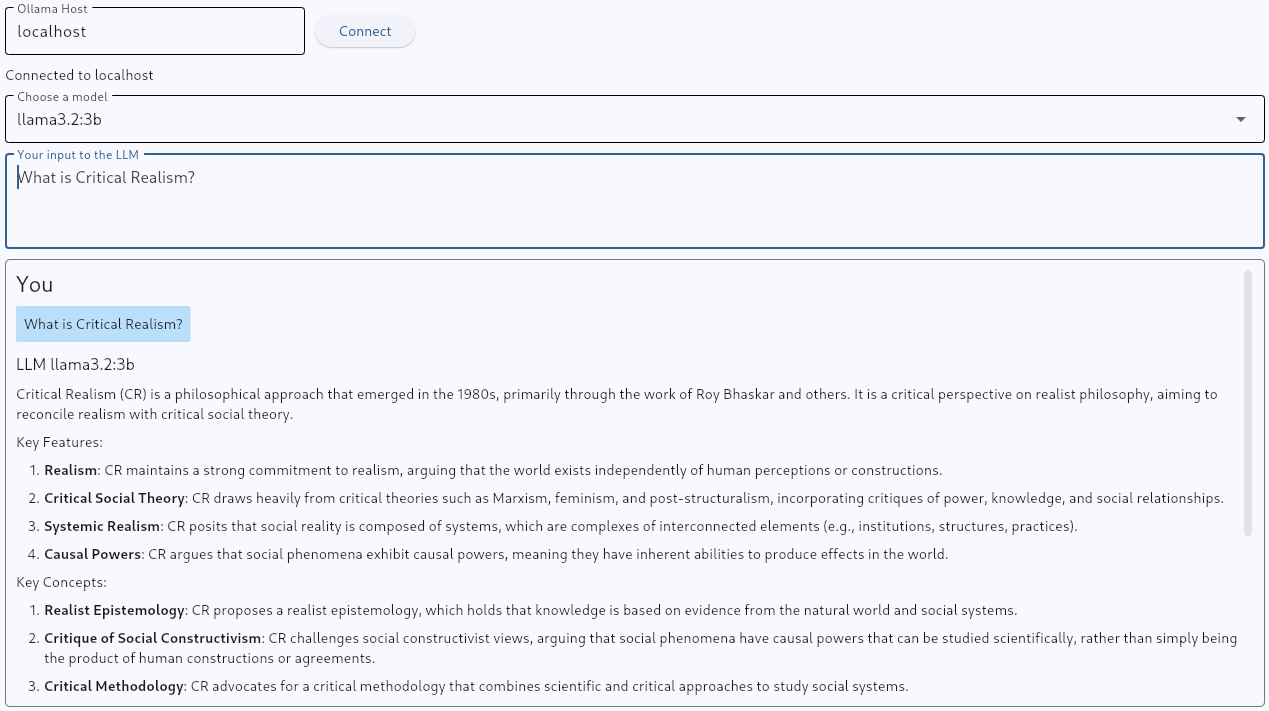
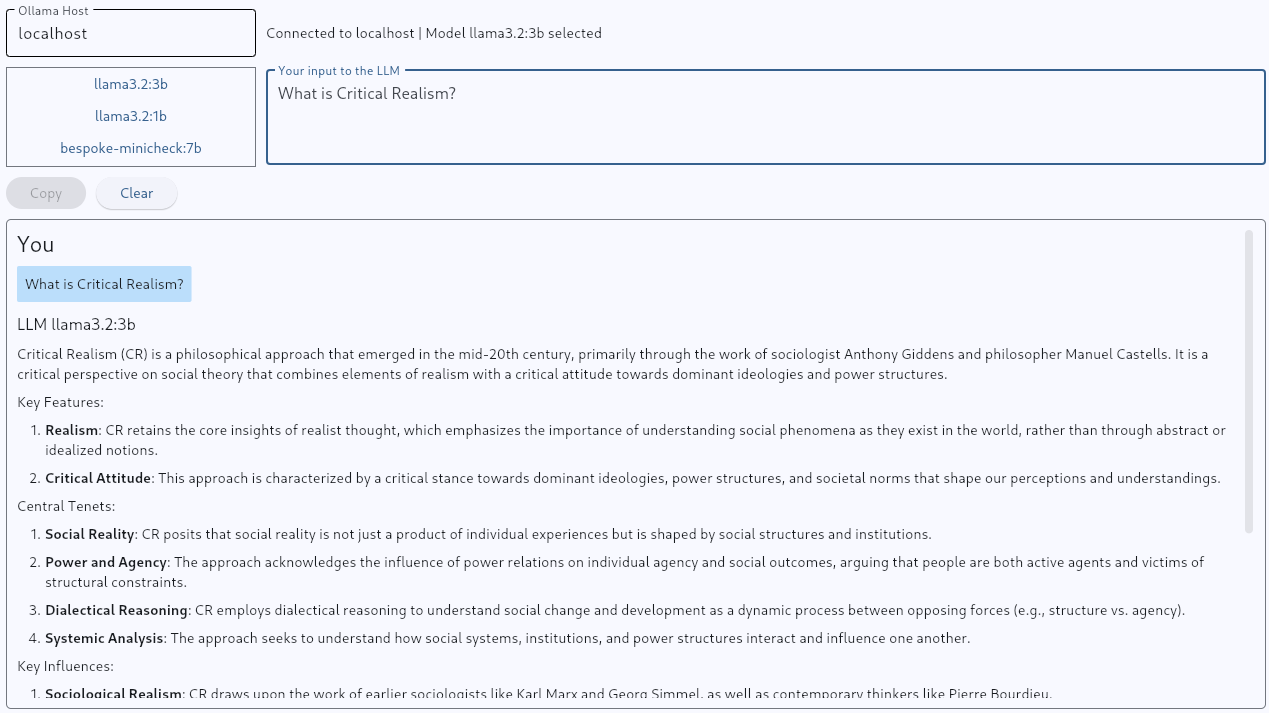
updates

diff --git a/python_flutter-impl/chatter.py b/python_flutter-impl/chatter.py
@@ -41,7 +41,7 @@ def main(page: ft.Page):
         try:
             nonlocal chatbot
             chatbot = bot_connect(bot_new(ollama_host_input.value))
-            status_text.value = f"Connected to {chatbot["ollama_host"]}"
+            status_text.value = f"Connected to {chatbot["ollama_host"]} |"
             
             # Fetch and populate the model list
             bot_load_models(chatbot)
@@ -57,11 +57,10 @@ def main(page: ft.Page):
         page.update()
 
     def on_model_change(model):
-        print(model)
         chatbot["model"] = model
         user_input.disabled = False
+        status_text.value = status_text.value[:status_text.value.index("|")+1] + f" Model {model} selected"
 
-        pprint.pprint(chatbot)
         page.update()
 
     def on_clear(e):
@@ -71,7 +70,11 @@ def main(page: ft.Page):
         page.update()
 
     def on_copy(e):
-        pass
+        page.set_clipboard(
+            "\n\n====================\n\n".join(
+                [f"[{message["role"]}]\n\n{message["content"]}" for message in chatbot["messages"]]
+            )
+        )
 
     def on_chat_submit(e):
         user_message = user_input.value
@@ -83,12 +86,14 @@ def main(page: ft.Page):
         chat_messages.controls.insert(0, ft.Markdown(f"### LLM {chatbot["model"]}\n\n{chatbot["messages"][-1]["content"]}"))
         chat_messages.controls.insert(0, ft.Markdown(f"## You\n> {chatbot["messages"][-2]["content"]}"))
 
+        copy_button.disabled = False
         clear_button.disabled = False
 
         page.update()
 
     ollama_host_input = ft.TextField(
         label="Ollama Host",
+        width=250,
         hint_text="localhost OR 192.168.50.247",
         on_submit=on_ollama_host_submit
     )
@@ -115,8 +120,7 @@ def main(page: ft.Page):
     chat_messages = ft.Column(scroll=ft.ScrollMode.ALWAYS, expand=True)
 
     page.add(
-        ft.Row([ollama_host_input, ft.ElevatedButton("Connect", on_click=on_ollama_host_submit)]),
-        status_text,
+        ft.Row([ollama_host_input, status_text]),
         ft.Row([
             ft.Container(
                 content=model_list,
